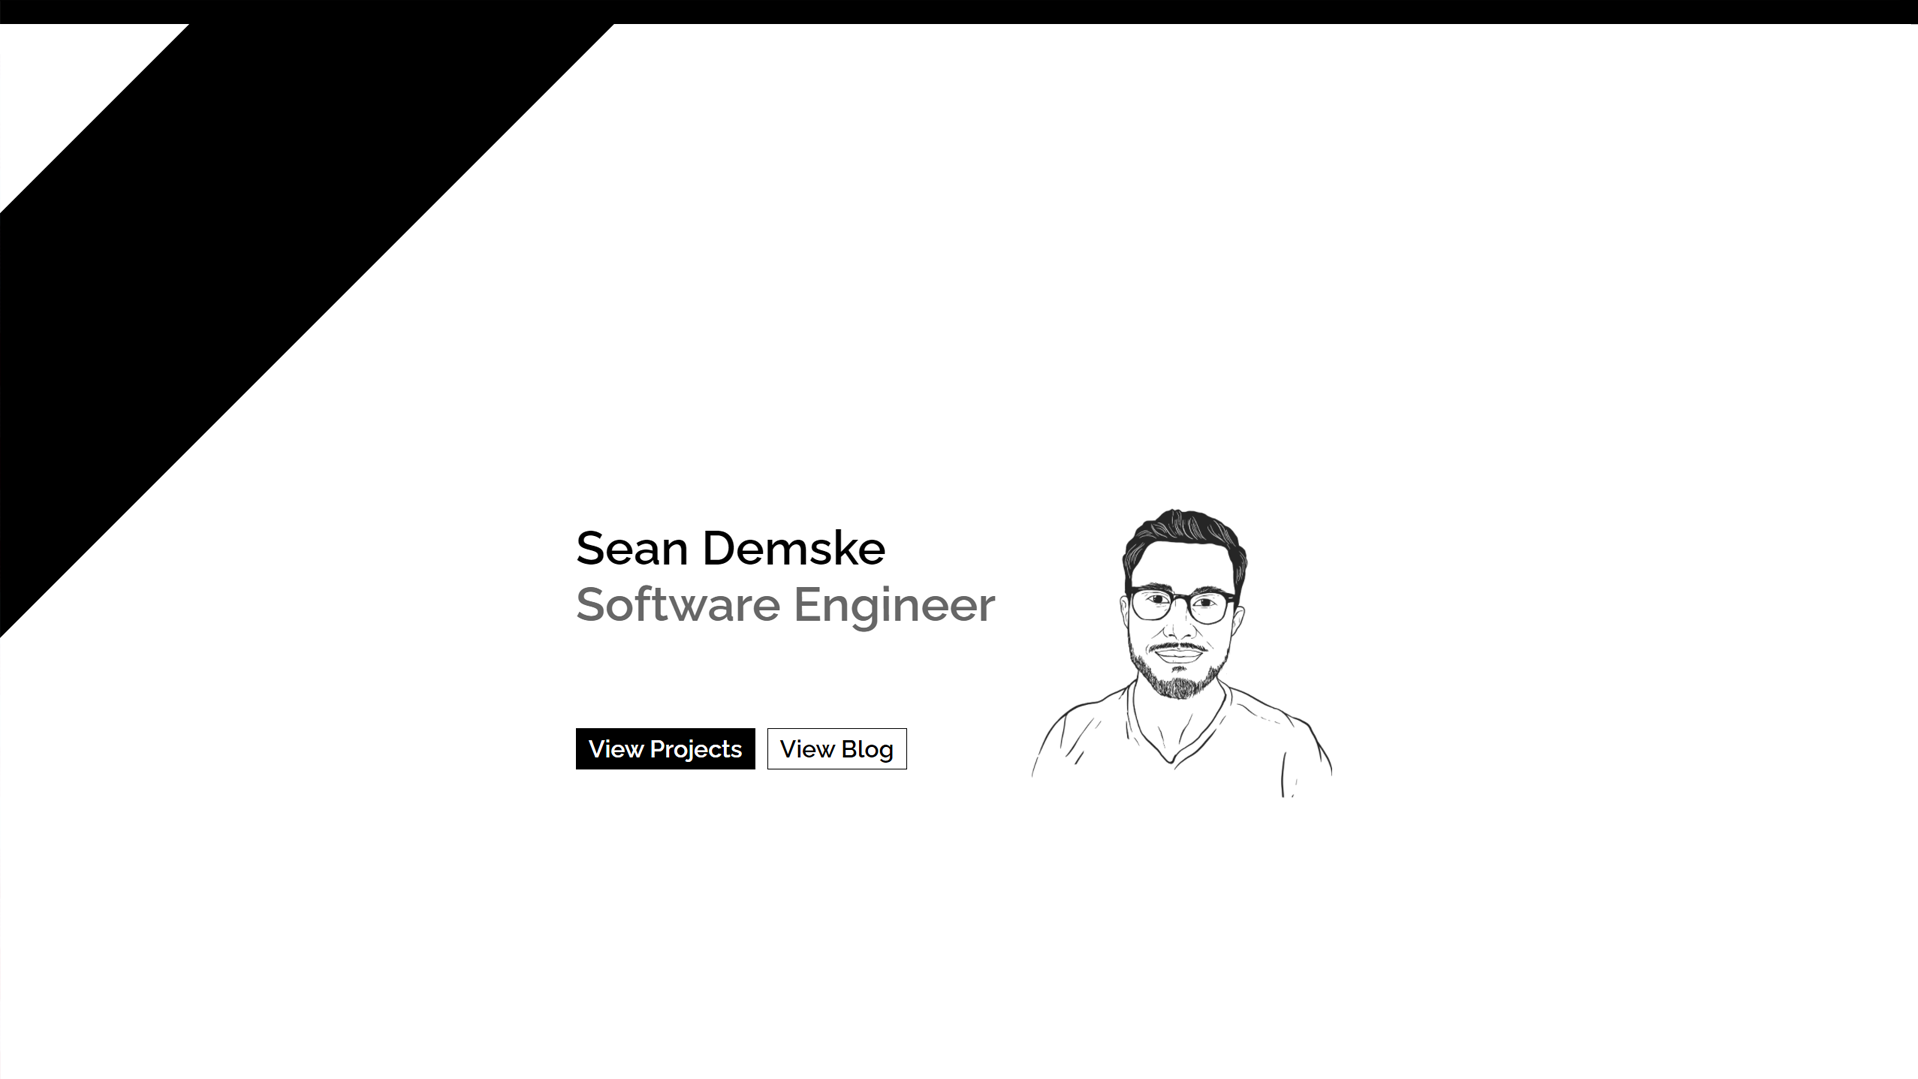
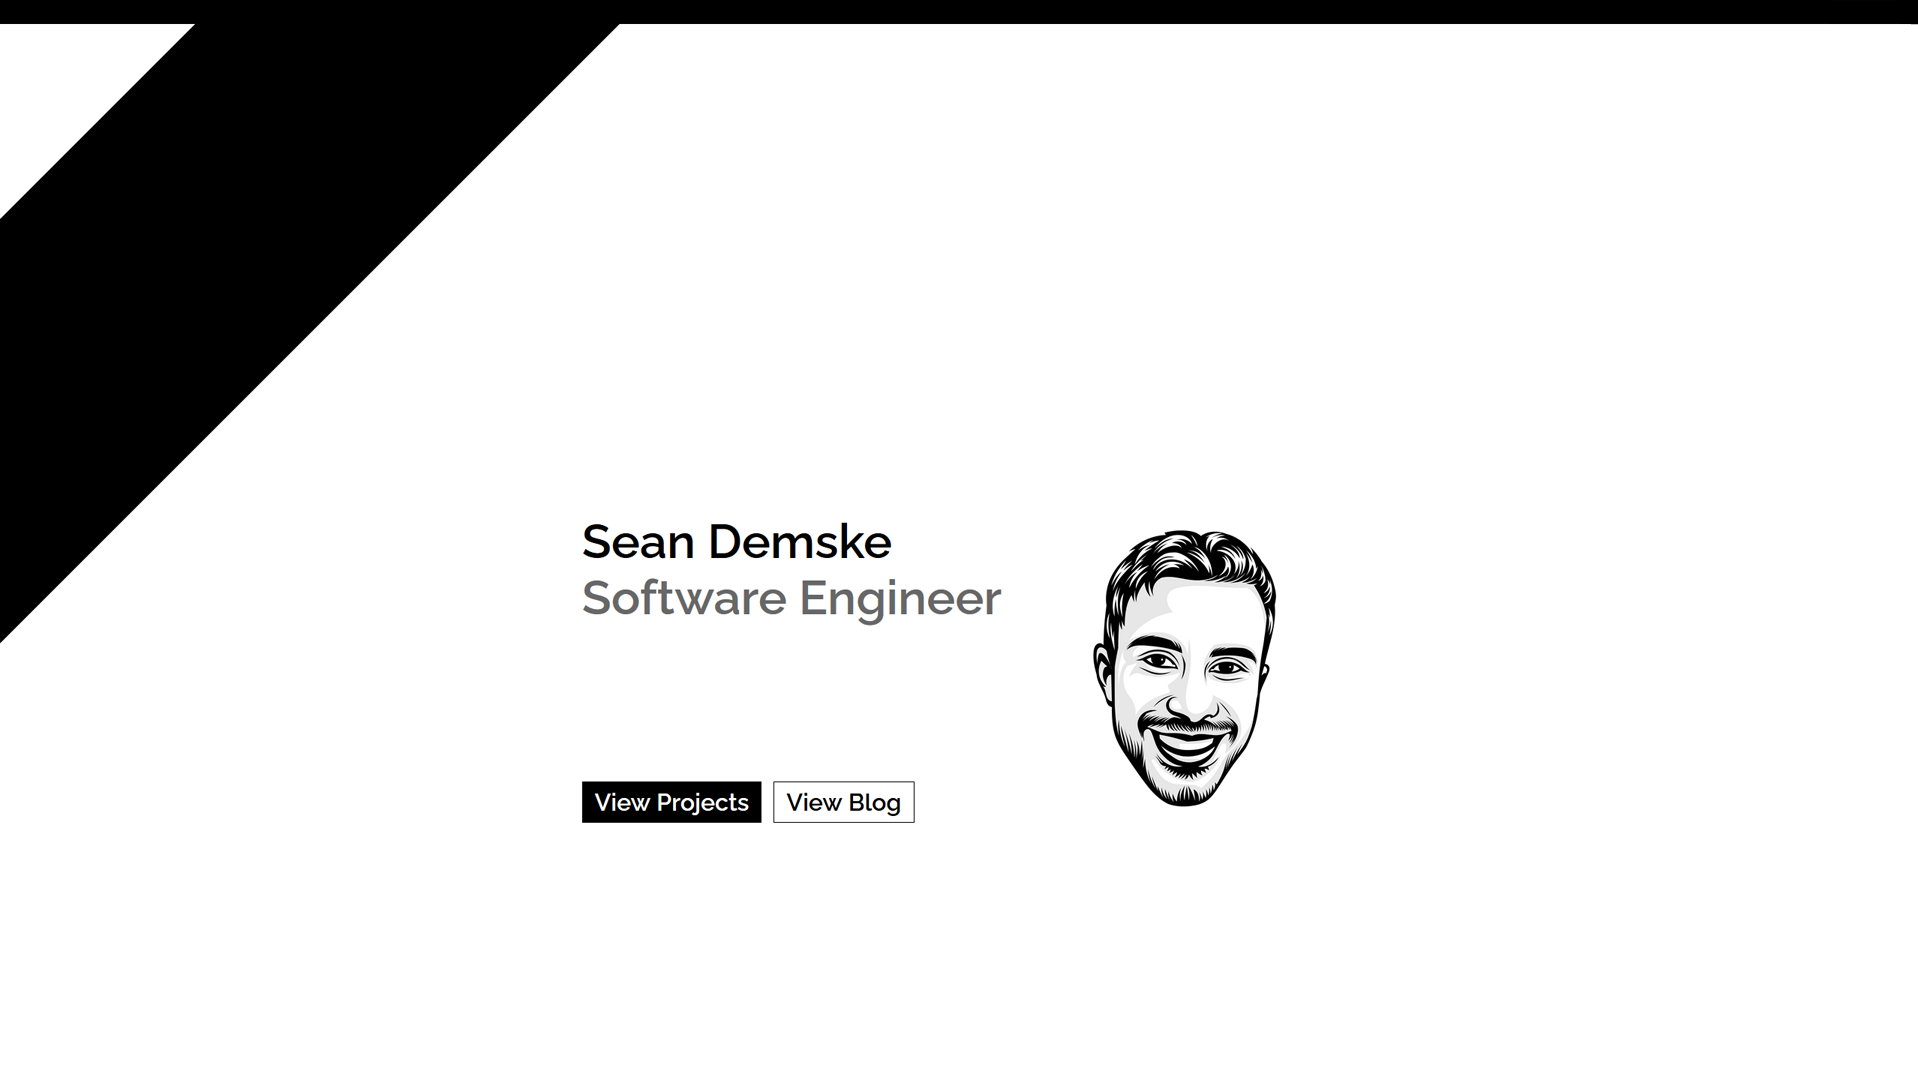
updated links, smooth transitioning, new portrait drawing

diff --git a/src/Components/Content/Projects/ProjectCard/ProjectCard.css b/src/Components/Content/Projects/ProjectCard/ProjectCard.css
@@ -1,7 +1,7 @@
 .ProjectCard {
     display: flex;
     justify-content: space-between;
-    margin: 3rem 0;
+    margin: 1rem 0;
 }
 
 .ProjectCard .left-panel {
@@ -19,12 +19,12 @@
 }
 
 .ProjectCard .left-panel p {
-    font-size: 1.25rem;
+    font-size: 1.5rem;
     font-weight: 500;
 }
 
 .ProjectCard .left-panel .links {
-    margin-bottom: 1.5rem;
+    margin-bottom: 2rem;
 }
 
 .ProjectCard .left-panel .links a {
@@ -37,7 +37,7 @@
     background-color: transparent;
     border: none;
     color: #676767;
-    font-size: 1.25rem;
+    font-size: 1.5rem;
     padding: 0;
     text-decoration: underline;
     font-weight: 500;
@@ -52,7 +52,7 @@
 }
 
 .ProjectCard .right-panel img {
-    width: 500px;
+    width: 650px;
     -webkit-box-shadow: 0px 5px 15px 5px rgba(0,0,0,0.25); 
     box-shadow: 0px 5px 15px 5px rgba(0,0,0,0.2);
 }
@@ -63,6 +63,15 @@
 @media screen and (max-width: 2500px) {
     .ProjectCard .left-panel {
         padding: 2rem 5rem 2rem 0rem;
+    }
+    .ProjectCard .right-panel img {
+        width: 500px;
+    }
+    .ProjectCard .left-panel p {
+        font-size: 1.25rem;
+    }
+    .ProjectCard .left-panel .hyperlink {
+        font-size: 1.25rem;
     }
 }
 
@@ -135,7 +144,7 @@
         align-items: center;
     }
     .ProjectCard .left-panel .links a {
-        width: 120px;
+        width: 250px;
         text-align: center;
         margin: .25rem 0;
     }
@@ -156,7 +165,7 @@
         flex-direction: column;
     }
     .ProjectCard .left-panel .links a {
-        width: 200px;
+        width: 250px;
         margin: .10rem 0;
     }
 }

diff --git a/src/Components/Content/AboutMe/AboutMe.jsx b/src/Components/Content/AboutMe/AboutMe.jsx
@@ -4,7 +4,7 @@ import "./AboutMe.css";
 const AboutMe = () => {
     return (
         <div className="AboutMe">
-            <h1>About Me</h1>
+            <h1>ABOUT ME</h1>
             <p>
                 I'm a fullstack developer and I enjoy bringing
                 my skillset and creativity to the table in a 
@@ -14,7 +14,7 @@ const AboutMe = () => {
                 Since then I have translated those skills over 
                 to my career as a developer!
             </p>
-            <p>P.S. I used to develop content for popular videogames!<a href="https://steamcommunity.com/id/SMasters9106/myworkshopfiles/">Check out my Steam Workshop</a></p>
+            <p>P.S. I used to develop content for popular videogames!<a target="_blank" href="https://steamcommunity.com/id/SMasters9106/myworkshopfiles/">Check out my Steam Workshop</a></p>
         </div>
     );
 }

diff --git a/src/Components/Content/Projects/ProjectCard/ProjectCard.jsx b/src/Components/Content/Projects/ProjectCard/ProjectCard.jsx
@@ -8,11 +8,11 @@ const ProjectCard = ({ data }) => {
             <div className="left-panel">
                 <div className="project-info">
                     <h1>{ title }</h1>
-                    <p>{ `${description} `} {blog ? <a className="hyperlink" href={ blog }>Read More</a> : ""}</p>
+                    <p>{ `${description} `} {blog ? <a className="hyperlink" target="_blank" href={ blog }>Read More</a> : ""}</p>
                 </div>
                 <div className="links">
-                    <a href={src}>View Source</a>
-                    <a href={demo}>View Live</a>
+                    <a target="_blank" href={src}>View Source</a>
+                    <a target="_blank" href={demo}>View Live</a>
                 </div>
             </div>
             <div className="right-panel">

diff --git a/src/LinksData.js b/src/LinksData.js
@@ -2,26 +2,31 @@ const LinksData = [
     {
         id: 0,
         alt: "Steam",
+        link: "https://steamcommunity.com/id/SMasters9106/myworkshopfiles/",
         faClass: "fab fa-steam"
     },
     {
         id: 1,
         alt: "Github",
+        link: "https://github.com/SeanDemske",
         faClass: "fab fa-github"
     },
     {
         id: 2,
         alt: "LinkedIn",
+        link: "https://www.linkedin.com/in/seandemske/",
         faClass: "fab fa-linkedin"
     },
     {
         id: 3,
         alt: "GMail",
+        link: "mailto:seandemske@gmail.com",
         faClass: "fas fa-envelope-square"
     },
     {
         id: 4,
         alt: "Resume",
+        link: "http://seandemske.com/Resume_Public.pdf",
         faClass: "fas fa-file"
     }
 ]

diff --git a/src/Components/Splashscreen/TitleCard/TitleCard.jsx b/src/Components/Splashscreen/TitleCard/TitleCard.jsx
@@ -17,8 +17,8 @@ const TitleCard = () => {
                     <p className="my-title">Software Engineer</p>
                 </div>
                 <div className="nav-links">
-                    <a href="https://seandemske.com">View Projects</a>
-                    <a href="seandemske.com">View Blog</a>
+                    <a href="#projects-section">View Projects</a>
+                    <a target="_blank" href="https://blog.seandemske.com/">View Blog</a>
                 </div>
             </div>
             <div className="right-panel">

diff --git a/src/App.css b/src/App.css
@@ -3,14 +3,14 @@
 }
 
 #Content > div {
-    margin: 0rem 40rem 15rem 40rem;
+    margin: 0rem 30rem 15rem 30rem;
 }
 
 /* RESPONSIVENESS */
 
 @media screen and (max-width: 2500px) {
     #Content > div {
-        margin: 0rem 40rem 15rem 40rem;
+        margin: 0rem 30rem 15rem 30rem;
     }
 }
 
@@ -22,7 +22,7 @@
 
 @media screen and (max-width: 1600px) {
     #Content > div {
-        margin: 0rem 10rem 15rem 10rem;
+        margin: 0rem 7rem 15rem 5rem;
     }
 }
 

diff --git a/src/Components/Content/Links/LinkComponent/LinkComponent.jsx b/src/Components/Content/Links/LinkComponent/LinkComponent.jsx
@@ -2,10 +2,10 @@ import React from "react";
 import "./LinkComponent.css";
 
 const LinkComponent = ({ data }) => {
-    const { faClass } = data;
+    const { faClass, link } = data;
     return (
         <span className="LinkComponent">
-            <a href=""><i className={faClass}></i></a>
+            <a target="_blank" href={link}><i className={faClass}></i></a>
         </span>
     );
 }

diff --git a/src/Components/Splashscreen/TitleCard/TitleCard.css b/src/Components/Splashscreen/TitleCard/TitleCard.css
@@ -35,7 +35,7 @@
 }
 
 .TitleCard .left-panel .nav-links {
-    margin-bottom: 3rem;
+    margin-bottom: 7rem;
 }
 
 .TitleCard .left-panel .nav-links a {
@@ -117,6 +117,7 @@ a:hover {
         display: flex;
         justify-content: center;
         margin-top: 3rem;
+        margin-bottom: 3rem;
     }
 
     .TitleCard .right-panel {

diff --git a/src/Components/Content/Projects/Projects.jsx b/src/Components/Content/Projects/Projects.jsx
@@ -6,7 +6,7 @@ import "./Projects.css";
 const Projects = () => {
     return (
         <div className="Projects">
-            <h1>Projects</h1>
+            <h1 id="projects-section">PROJECTS</h1>
             {ProjectData.map(p => <ProjectCard data={p} key={p.id} />)}
         </div>
     );

diff --git a/src/Components/Content/Links/Links.jsx b/src/Components/Content/Links/Links.jsx
@@ -7,7 +7,7 @@ import "./Links.css";
 const Links = () => {
     return (
         <div className="Links">
-            <h1>Links</h1>
+            <h1>LINKS</h1>
             <div>{LinksData.map(link => <LinkComponent data={link} key={link.id} />)}</div>
         </div>
     );

diff --git a/src/Components/Splashscreen/Splashscreen.js b/src/Components/Splashscreen/Splashscreen.js
@@ -5,7 +5,7 @@ import "./Splashscreen.css";
 
 const Splashscreen = () => {
     return (
-        <div className="Splashscreen">
+        <div id="splashscreen-section" className="Splashscreen">
             <FramingShapes />
             <TitleCard />
         </div>

diff --git a/src/Components/Footer/Footer.jsx b/src/Components/Footer/Footer.jsx
@@ -4,7 +4,7 @@ import "./Footer.css";
 const Footer = () => {
     return (
         <div className="Footer">
-            <a href="">Back to top</a>
+            <a href="#splashscreen-section">Back to top</a>
         </div>
     );
 }
